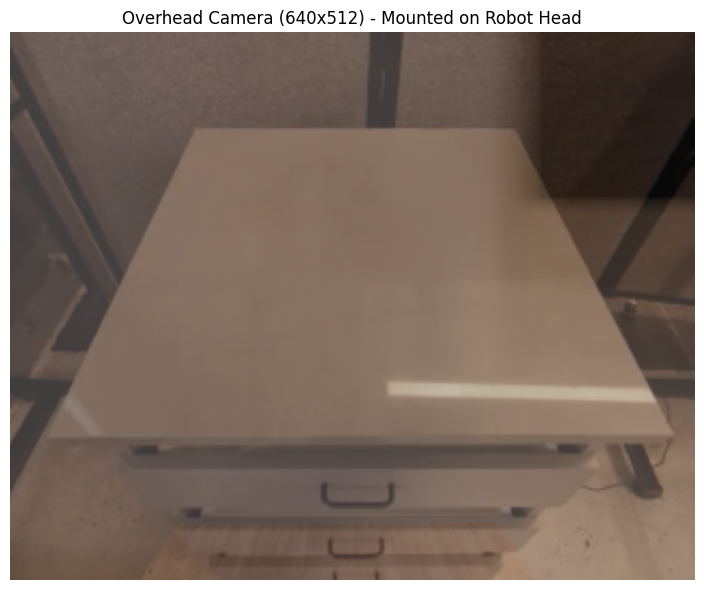
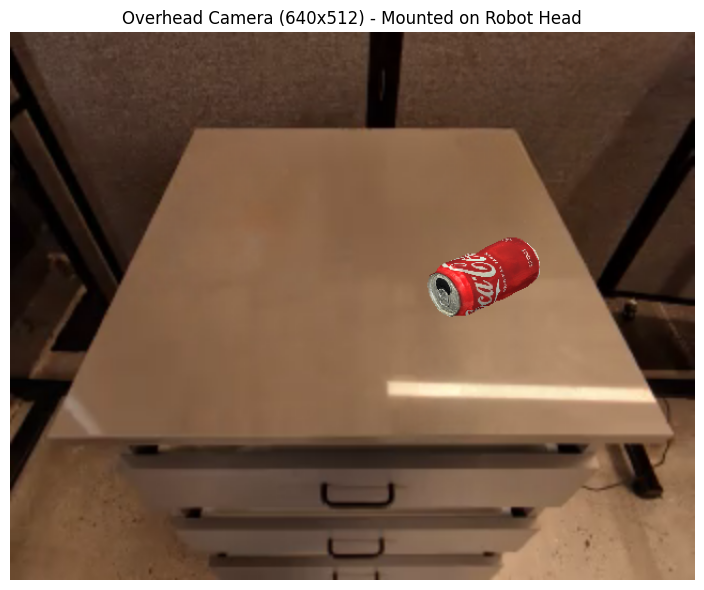
overlay envs enabled, can env tested

diff --git a/mani_skill/agents/robots/googlerobot/googlerobot.py b/mani_skill/agents/robots/googlerobot/googlerobot.py
@@ -1,32 +1,236 @@
+from copy import deepcopy
+from typing import List
+
 import numpy as np
 import sapien
+import sapien.physx as physx
+import torch
 
 from mani_skill import ASSET_DIR
-from mani_skill.agents.base_agent import BaseAgent
+from mani_skill.agents.base_agent import BaseAgent, Keyframe
 from mani_skill.agents.controllers import *
 from mani_skill.agents.registration import register_agent
 from mani_skill.sensors.camera import CameraConfig
+from mani_skill.utils.structs.link import Link
 
 
 # TODO (stao) (xuanlin): Add mobile base, model it properly based on real2sim
 @register_agent(asset_download_ids=["googlerobot"])
 class GoogleRobot(BaseAgent):
+    """
+    Google Robot with mobile base (wheels can move).
+
+    This robot has 11 controllable joints (excluding the fixed finger rotation joints):
+    - 2 wheel joints (if mobile)
+    - 7 arm joints
+    - 2 gripper (finger) joints
+    - Note: joint_finger_{left/right} are set as fixed joints in the URDF
+    """
     uid = "googlerobot"
     urdf_path = (
         f"{ASSET_DIR}/robots/googlerobot/google_robot_meta_sim_fix_fingertip.urdf"
     )
-    urdf_config = dict()
+
+    # Friction settings for fingers (based on SimplerEnv defaults)
+    finger_friction = 2.0
+    finger_min_patch_radius = 0.1
+    finger_nail_min_patch_radius = 0.01
+
+    urdf_config = dict(
+        _materials=dict(
+            finger_mat=dict(
+                static_friction=finger_friction,
+                dynamic_friction=finger_friction,
+                restitution=0.0,
+            ),
+            finger_tip_mat=dict(
+                static_friction=finger_friction,
+                dynamic_friction=finger_friction,
+                restitution=0.0,
+            ),
+            finger_nail_mat=dict(
+                static_friction=0.1, dynamic_friction=0.1, restitution=0.0
+            ),
+            base_mat=dict(static_friction=0.1, dynamic_friction=0.0, restitution=0.0),
+            wheel_mat=dict(static_friction=1.0, dynamic_friction=0.0, restitution=0.0),
+        ),
+        link=dict(
+            link_base=dict(material="base_mat", patch_radius=0.1, min_patch_radius=0.1),
+            link_wheel_left=dict(
+                material="wheel_mat", patch_radius=0.1, min_patch_radius=0.1
+            ),
+            link_wheel_right=dict(
+                material="wheel_mat", patch_radius=0.1, min_patch_radius=0.1
+            ),
+            link_finger_left=dict(
+                material="finger_mat",
+                patch_radius=finger_min_patch_radius,
+                min_patch_radius=finger_min_patch_radius,
+            ),
+            link_finger_right=dict(
+                material="finger_mat",
+                patch_radius=finger_min_patch_radius,
+                min_patch_radius=finger_min_patch_radius,
+            ),
+            link_finger_tip_left=dict(
+                material="finger_tip_mat",
+                patch_radius=finger_min_patch_radius,
+                min_patch_radius=finger_min_patch_radius,
+            ),
+            link_finger_tip_right=dict(
+                material="finger_tip_mat",
+                patch_radius=finger_min_patch_radius,
+                min_patch_radius=finger_min_patch_radius,
+            ),
+            link_finger_nail_left=dict(
+                material="finger_nail_mat",
+                patch_radius=finger_nail_min_patch_radius,
+                min_patch_radius=finger_nail_min_patch_radius,
+            ),
+            link_finger_nail_right=dict(
+                material="finger_nail_mat",
+                patch_radius=finger_nail_min_patch_radius,
+                min_patch_radius=finger_nail_min_patch_radius,
+            ),
+        ),
+    )
+
+    arm_joint_names = [
+        "joint_torso",
+        "joint_shoulder",
+        "joint_bicep",
+        "joint_elbow",
+        "joint_forearm",
+        "joint_wrist",
+        "joint_gripper",
+        "joint_head_pan",
+        "joint_head_tilt",
+    ]
+    gripper_joint_names = ["joint_finger_right", "joint_finger_left"]
+    ee_link_name = "link_gripper_tcp"
+
+    # PD parameters from SimplerEnv (force drive mode)
+    arm_stiffness = [
+        1700.0,
+        1737.0471680861954,
+        979.975871856535,
+        930.0,
+        1212.154500274304,
+        432.96500923932535,
+        468.0013365498738,
+        2000,
+        2000,
+    ]
+    arm_damping = [
+        1059.9791902443303,
+        1010.4720585373592,
+        767.2803161582076,
+        680.0,
+        674.9946964336588,
+        274.613381336198,
+        340.532560578637,
+        900,
+        900,
+    ]
+    arm_force_limit = [300, 300, 100, 100, 100, 100, 100, 100, 100]
+
+    gripper_stiffness = 200
+    gripper_damping = 8
+    gripper_force_limit = 60
+
+    @property
+    def _controller_configs(self):
+        # -------------------------------------------------------------------------- #
+        # Arm
+        # -------------------------------------------------------------------------- #
+        arm_pd_ee_delta_pose = PDEEPoseControllerConfig(
+            joint_names=self.arm_joint_names,
+            pos_lower=-0.1,
+            pos_upper=0.1,
+            rot_lower=-0.1,
+            rot_upper=0.1,
+            stiffness=self.arm_stiffness,
+            damping=self.arm_damping,
+            force_limit=self.arm_force_limit,
+            ee_link=self.ee_link_name,
+            urdf_path=self.urdf_path,
+            normalize_action=False,
+        )
+        arm_pd_ee_delta_pose_align = PDEEPoseControllerConfig(
+            joint_names=self.arm_joint_names,
+            pos_lower=-0.1,
+            pos_upper=0.1,
+            rot_lower=-0.1,
+            rot_upper=0.1,
+            stiffness=self.arm_stiffness,
+            damping=self.arm_damping,
+            force_limit=self.arm_force_limit,
+            ee_link=self.ee_link_name,
+            urdf_path=self.urdf_path,
+            frame="ee_align",
+            normalize_action=False,
+        )
+
+        # -------------------------------------------------------------------------- #
+        # Gripper
+        # -------------------------------------------------------------------------- #
+        # Mimic joint configuration for Google Robot gripper
+        gripper_pd_joint_pos = PDJointPosMimicControllerConfig(
+            joint_names=self.gripper_joint_names,
+            lower=-1.3 - 0.01,  # trick to have force when grasping
+            upper=1.3 + 0.01,
+            stiffness=self.gripper_stiffness,
+            damping=self.gripper_damping,
+            force_limit=self.gripper_force_limit,
+            normalize_action=True,
+        )
+
+        controller_configs = dict(
+            pd_ee_delta_pose=dict(arm=arm_pd_ee_delta_pose, gripper=gripper_pd_joint_pos),
+            pd_ee_delta_pose_align=dict(
+                arm=arm_pd_ee_delta_pose_align, gripper=gripper_pd_joint_pos
+            ),
+        )
+
+        # Make deepcopy
+        return deepcopy(controller_configs)
 
     @property
     def _sensor_configs(self):
         return [
             CameraConfig(
                 uid="overhead_camera",
-                pose=sapien.Pose([0, 0, 0], [0.5, 0.5, -0.5, 0.5]),
+                pose=sapien.Pose([0, 0, 0], [ 0.65328148,  0.27059805, -0.27059805,  0.65328148]), #[0.5, 0.5, -0.5, 0.5]
                 width=640,
                 height=512,
                 entity_uid="link_camera",
                 intrinsic=np.array([[425.0, 0, 305.0], [0, 413.1, 233.0], [0, 0, 1]]),
             )
         ]
+
+    def _after_loading_articulation(self):
+        """Called after the articulation is loaded."""
+        super()._after_loading_articulation()
+
+        # Cache finger links for grasp checking
+        self.finger_right_link: Link = self.robot.links_map["link_finger_right"]
+        self.finger_left_link: Link = self.robot.links_map["link_finger_left"]
+        self.finger_right_tip_link: Link = self.robot.links_map["link_finger_tip_right"]
+        self.finger_left_tip_link: Link = self.robot.links_map["link_finger_tip_left"]
+
+
+@register_agent(asset_download_ids=["googlerobot"])
+class GoogleRobotStatic(GoogleRobot):
+    """
+    Google Robot with static base (wheels are fixed).
+
+    This variant uses a URDF where the wheels are fixed, making it suitable for
+    tabletop manipulation tasks. The robot has 11 controllable joints:
+    - 9 arm joints (including torso, shoulder, bicep, elbow, forearm, wrist, gripper, head_pan, head_tilt)
+    - 2 gripper (finger) joints
+
+    Based on SimplerEnv's GoogleRobotStaticBase implementation.
+    """
+    uid = "googlerobot_static"
+    urdf_path = f"{ASSET_DIR}/robots/googlerobot/google_robot_static_fixed.urdf"
 

diff --git a/mani_skill/envs/tasks/digital_twins/simpler_env/grasp_single_coke_can.py b/mani_skill/envs/tasks/digital_twins/simpler_env/grasp_single_coke_can.py
@@ -32,7 +32,7 @@ class GraspSingleOpenedCokeCanInScene(BaseDigitalTwinEnv):
             "overhead_camera": str(ASSET_DIR / "scene_datasets/simpler_env/google_coke_can_real_eval_1.png")
         }
         # RGB overlay mode: "background" (default), "debug" (50/50 blend), or "none" (disabled)
-        self.rgb_overlay_mode = "debug"  # Change to "debug" for 50/50 visualization
+        self.rgb_overlay_mode = "background"  # Change to "debug" for 50/50 visualization
 
         # Object properties
         self.obj_bbox = np.array([0.066, 0.123, 0.066])  # Coke can bbox
@@ -43,7 +43,7 @@ class GraspSingleOpenedCokeCanInScene(BaseDigitalTwinEnv):
         self.lifted_obj = False
         self.obj_height_after_settle = None
 
-        super().__init__(robot_uids="googlerobot", **kwargs)
+        super().__init__(robot_uids="googlerobot_static", **kwargs)
 
     @property
     def _default_sim_config(self):
@@ -58,7 +58,7 @@ class GraspSingleOpenedCokeCanInScene(BaseDigitalTwinEnv):
     def _default_human_render_camera_configs(self):
         return CameraConfig(
             "render_camera",
-            pose=sapien.Pose([5.0, 1.0, 15.0], euler2quat(0, np.pi/2, 0)),
+            pose=sapien.Pose([0.0, 0.0, 2.0], euler2quat(0, np.pi/2, np.pi)),
             width=512, height=512, fov=1, near=0.01, far=100
         )
 
@@ -105,19 +105,18 @@ class GraspSingleOpenedCokeCanInScene(BaseDigitalTwinEnv):
         self.scene.add_directional_light([1, 1, -1], [0.7, 0.7, 0.7])
 
     def _load_agent(self, options: dict):
-        # Robot initial pose
-        super()._load_agent(options, sapien.Pose(p=[0.35, 0.20, 0.06205 + 0.017], q=[0,0,0,1]))
+        # Robot initial pose - positioned near table height (table is at ~0.87m)
+        # The Google Robot base should be at ground level, assuming the table scene includes the floor
+        super()._load_agent(options, sapien.Pose(p=[0.35, 0.20, 0.0], q=[0,0,0,1]))
 
     def _initialize_episode(self, env_idx: torch.Tensor, options: dict):
         with torch.device(self.device):
             b = len(env_idx)
 
-            # Initialize robot
-            # qpos = torch.tensor([
-            #     -0.264, 0.083, 0.502, 1.157, 0.029, 1.593, -1.081, 0, 0, -0.003, 0.785
-            # ], device=self.device)
-            # self.agent.robot.set_qpos(qpos)
-            self.agent.robot.set_pose(sapien.Pose([0.35, 0.20, 0.07905], [0,0,0,1]))
+            # Initialize robot pose - keep it at ground level
+            # The robot base should stay where it was loaded
+            # If you need to reset the robot, use set_qpos for joint positions instead
+            self.agent.robot.set_pose(sapien.Pose([0.35, 0.20, 0.0], [0., 0., 0., 1.]))
 
             # Drop object from above table (drawer unit)
             obj_init_xy = torch.rand((b, 2), device=self.device) * torch.tensor(

diff --git a/test_simplerenv.py b/test_simplerenv.py
@@ -3,6 +3,8 @@ import matplotlib.pyplot as plt
 # from simpler_env.utils.env.observation_utils import get_image_from_maniskill3_obs_dict
 from mani_skill.envs.tasks.digital_twins.bridge_dataset_eval import *
 from mani_skill.utils.wrappers.record import RecordEpisode
+from mani_skill.utils.wrappers import CPUGymWrapper
+
 
 def get_image_from_maniskill3_obs_dict(env, obs, camera_name=None):
     import torch
@@ -14,18 +16,29 @@ def get_image_from_maniskill3_obs_dict(env, obs, camera_name=None):
             camera_name = "3rd_view_camera"
         else:
             raise NotImplementedError()
-    img = obs["sensor_data"][camera_name]["rgb"]
-    return img.to(torch.uint8)
+    return obs["sensor_data"][camera_name]["rgb"]
+
+def save_obs_images(env, obs):
+    img = get_image_from_maniskill3_obs_dict(env, obs)
+    # img = img.cpu().numpy()
+    # Create visualization
+    plt.figure(figsize=(8, 6))
+    plt.imshow(img)
+    plt.axis('off')
+    plt.tight_layout()
+    plt.savefig(f"camera_view.png", dpi=100, bbox_inches='tight')
+    print(f"Saved camera view to: camera_view.png")
 
 env = gym.make(
   "PutSpoonOnTableClothInSceneReward-v0",
-  # obs_mode="rgb+segmentation",
-  obs_mode="rgb",
+  obs_mode="rgb+segmentation",
+#   obs_mode="rgb",
   num_envs=1, # if num_envs > 1, GPU simulation backend is used.
   render_mode="rgb_array",
   reward_mode="normalized_dense",
 )
 
+env = CPUGymWrapper(env)
 # Wrap with RecordEpisode to record trajectories and/or videos
 env = RecordEpisode(
     env,
@@ -45,19 +58,21 @@ obs, _ = env.reset()
 # Get the first image and display it
 # image = get_image_from_maniskill3_obs_dict(env, obs) # this is the image observation for policy inference
 
+save_obs_images(env, obs)
+
 i = 0
 
 while True:
     # action[:3]: delta xyz; action[3:6]: delta rotation in axis-angle representation;
     # action[6:7]: gripper (the meaning of open / close depends on robot URDF)
-    # image = get_image_from_maniskill3_obs_dict(env, obs) # this is the image observation for policy inference
+    image = get_image_from_maniskill3_obs_dict(env, obs) # this is the image observation for policy inference
 
     action = env.action_space.sample() # replace this with your policy inference
     for j in range(len(action)): action[j]=0.0  # test the limits
     action[-1] = -1.0
     obs, reward, terminated, truncated, info = env.step(action)
     print("Reward:", reward)
-    if truncated.any():
+    if truncated:
         break
 print("Episode Info", info)
 env.close() 

diff --git a/mani_skill/envs/tasks/digital_twins/bridge_dataset_eval/put_on_in_scene.py b/mani_skill/envs/tasks/digital_twins/bridge_dataset_eval/put_on_in_scene.py
@@ -26,7 +26,7 @@ class MyTestEnv(BaseBridgeEnv):
     ]
 
     def __init__(self, **kwargs):
-        self.rgb_overlay_mode = "none"
+        self.rgb_overlay_mode = "background"  # Change to "debug" for 50/50 visualization
         xy_center = np.array([-0.16, 0.00])
         half_edge_length_x = 0.075
         half_edge_length_y = 0.075
@@ -391,7 +391,17 @@ class PutSpoonOnTableClothInScene(BaseBridgeEnv):
 class PutSpoonOnTableClothInSceneReward(PutSpoonOnTableClothInScene):
     SUPPORTED_OBS_MODES = ("rgb", "rgb+segmentation")
     SUPPORTED_REWARD_MODES = ("normalized_dense", "dense", "sparse", "none")
+    objects_excluded_from_greenscreening = [
+        "table_cloth_generated_shorter",
+        "bridge_spoon_generated_modified",
+    ]
     
+    def __init__(
+        self,
+        **kwargs,
+    ):
+        super().__init__(**kwargs)
+
     @property
     def _default_sim_config(self):
         return SimConfig(sim_freq=100, control_freq=20, spacing=5)

diff --git a/mani_skill/envs/tasks/digital_twins/bridge_dataset_eval/base_env.py b/mani_skill/envs/tasks/digital_twins/bridge_dataset_eval/base_env.py
@@ -630,7 +630,7 @@ class BaseBridgeEnv(BaseDigitalTwinEnv):
 
         # Stage 4: Lifting reward - encourage lifting the object above the table
         # Get the initial z position of the table surface (assumed around 0.88 based on xyz_configs)
-        lift_threshold = 0.01  # Target lift height above table
+        lift_threshold = 0.02  # Target lift height above table
         current_lift = torch.clamp(pos_src[:, 2] - self.surface_height, min=0.0)
         lifting_reward = torch.clamp(current_lift / lift_threshold, max=1.0)
         reward += lifting_reward * is_consecutive_grasped

diff --git a/mani_skill/agents/robots/googlerobot/__init__.py b/mani_skill/agents/robots/googlerobot/__init__.py
@@ -1,1 +1,1 @@
-from .googlerobot import GoogleRobot
+from .googlerobot import GoogleRobot, GoogleRobotStatic
